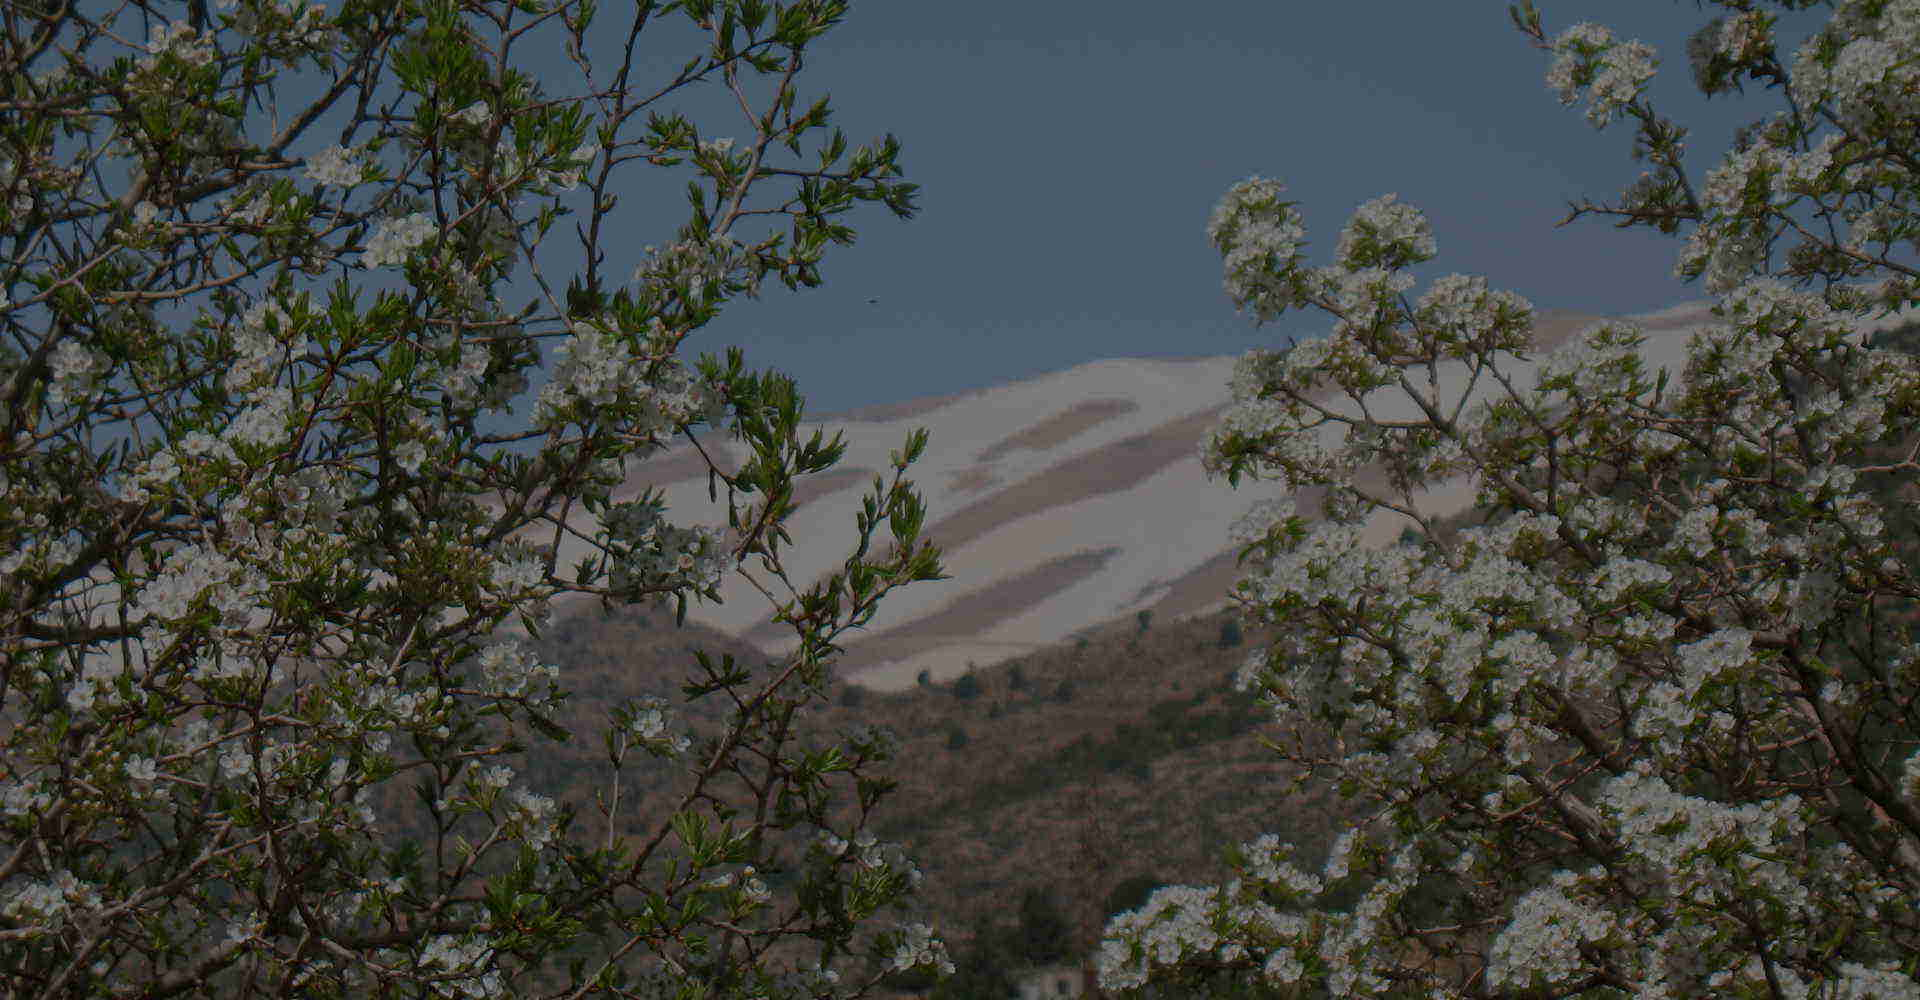
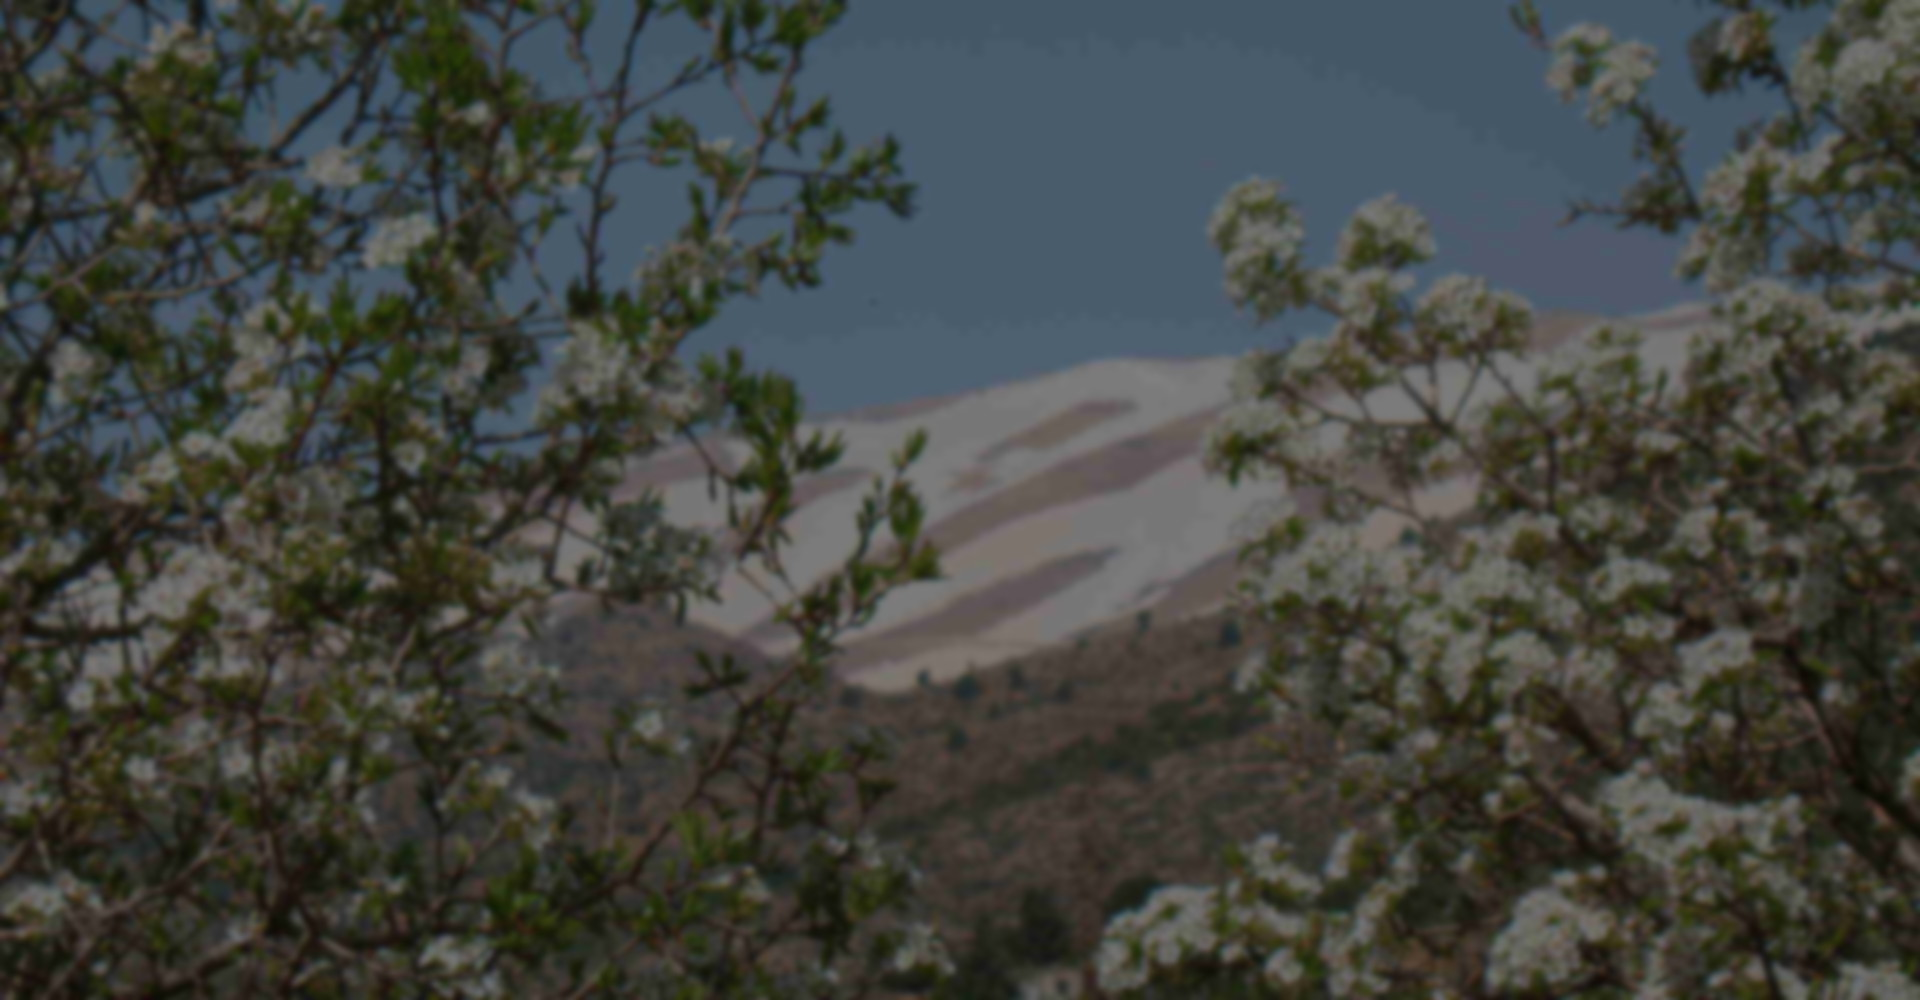
Update texts for donations

diff --git a/templates/Repute/theme/assets/css/main.css b/templates/Repute/theme/assets/css/main.css
@@ -4469,7 +4469,6 @@ div[class*="col-"] > .form-group {
   background-image: url('../img/paralax-background.jpg?1424866387');
   background-attachment: fixed;
   background-position: center center;
-  -webkit-filter: blur(5px);
   color: #fff;
   margin-bottom: 0;
 }

diff --git a/views/view_footer.php b/views/view_footer.php
@@ -20,26 +20,25 @@
                     </div>
                     <div class="col-md-4">
                         <h3 class="footer-heading"><?php t(':USEFUL_LINKS') ?></h3>
-                            <ul class="list-unstyled footer-nav">
-                                <li>
-                                    <a href="<?php t('HOME:FOOTER_LINK_0')?>"><?php t('HOME:FOOTER_LINK_0_DISPLAY')?></a>
-                                </li>
-                                <li>
-                                    <a href="<?php t('HOME:FOOTER_LINK_1')?>"><?php t('HOME:FOOTER_LINK_1_DISPLAY')?></a>
-                                </li>
-                                <li>
-                                    <a href="<?php t('HOME:FOOTER_LINK_2')?>"><?php t('HOME:FOOTER_LINK_2_DISPLAY')?></a>
-                                </li>
-                                <li>
-                                    <a href="<?php t('HOME:FOOTER_LINK_3')?>"><?php t('HOME:FOOTER_LINK_3_DISPLAY')?></a>
-                                </li>
-                                <?php foreach($obj['links'] as $link) { ?>
-                                <li>
-                                    <a href="<?php echo $link['link']?>"><?php echo $link['display'] ?></a>
-                                </li>
-                                <?php } ?>
-                            </ul>
-                        </h3>
+                        <ul class="list-unstyled footer-nav">
+                            <li>
+                                <a href="<?php t('HOME:FOOTER_LINK_0')?>"><?php t('HOME:FOOTER_LINK_0_DISPLAY')?></a>
+                            </li>
+                            <li>
+                                <a href="<?php t('HOME:FOOTER_LINK_1')?>"><?php t('HOME:FOOTER_LINK_1_DISPLAY')?></a>
+                            </li>
+                            <li>
+                                <a href="<?php t('HOME:FOOTER_LINK_2')?>"><?php t('HOME:FOOTER_LINK_2_DISPLAY')?></a>
+                            </li>
+                            <li>
+                                <a href="<?php t('HOME:FOOTER_LINK_3')?>"><?php t('HOME:FOOTER_LINK_3_DISPLAY')?></a>
+                            </li>
+                            <?php foreach($obj['links'] as $link) { ?>
+                            <li>
+                                <a href="<?php echo $link['link']?>"><?php echo $link['display'] ?></a>
+                            </li>
+                            <?php } ?>
+                        </ul>
                     </div>
                     <div class="col-md-4">
                         <!-- COLUMN 3 -->

diff --git a/views/view_donateFinalize.php b/views/view_donateFinalize.php
@@ -21,11 +21,11 @@
             <h3><?php t(':FINALIZE_YOUR_DONATION') ?></h3>
             <?php
                 if ($obj['donation']['type'] == 'vir') {
-                    displayPartial('site', 'fixedArticle', array('titleKey' => 'DonateFinalizeVir', 'renderType' => 'raw'));
+                    displayPartial('site', 'fixedArticle', array('titleKey' => 'DonateFinalizeVir', 'renderType' => 'raw', 'macros' => $obj['donation']));
                 } elseif ($obj['donation']['type'] == 'cb') {
-                    displayPartial('site', 'fixedArticle', array('titleKey' => 'DonateFinalizeCb', 'renderType' => 'raw'));
+                    displayPartial('site', 'fixedArticle', array('titleKey' => 'DonateFinalizeCb', 'renderType' => 'raw', 'macros' => $obj['donation']));
                 } else {
-                    displayPartial('site', 'fixedArticle', array('titleKey' => 'DonateFinalizeChq', 'renderType' => 'raw'));
+                    displayPartial('site', 'fixedArticle', array('titleKey' => 'DonateFinalizeChq', 'renderType' => 'raw', 'macros' => $obj['donation']));
                 }
             ?>
         </div>

diff --git a/controllers/controller_builder.php b/controllers/controller_builder.php
@@ -44,6 +44,7 @@ class ControllerBuilder extends controllerSite{
             $this->textDal->DeleteWhere(array('key' => $article['titleKey']));
             $this->textDal->DeleteWhere(array('key' => $article['textKey']));
             $this->articleDal->DeleteWhere(array('id' => $article['id']));
+            $obj['status'] = 'ok';
             $this->webSite->AddMessage('success', ':ARTICLE_DELETED');
         } else {
             $this->webSite->AddMessage('warning', array(':ARTICLE_NOT_FOUND_WITH_ID_{0}', $params['id']));
